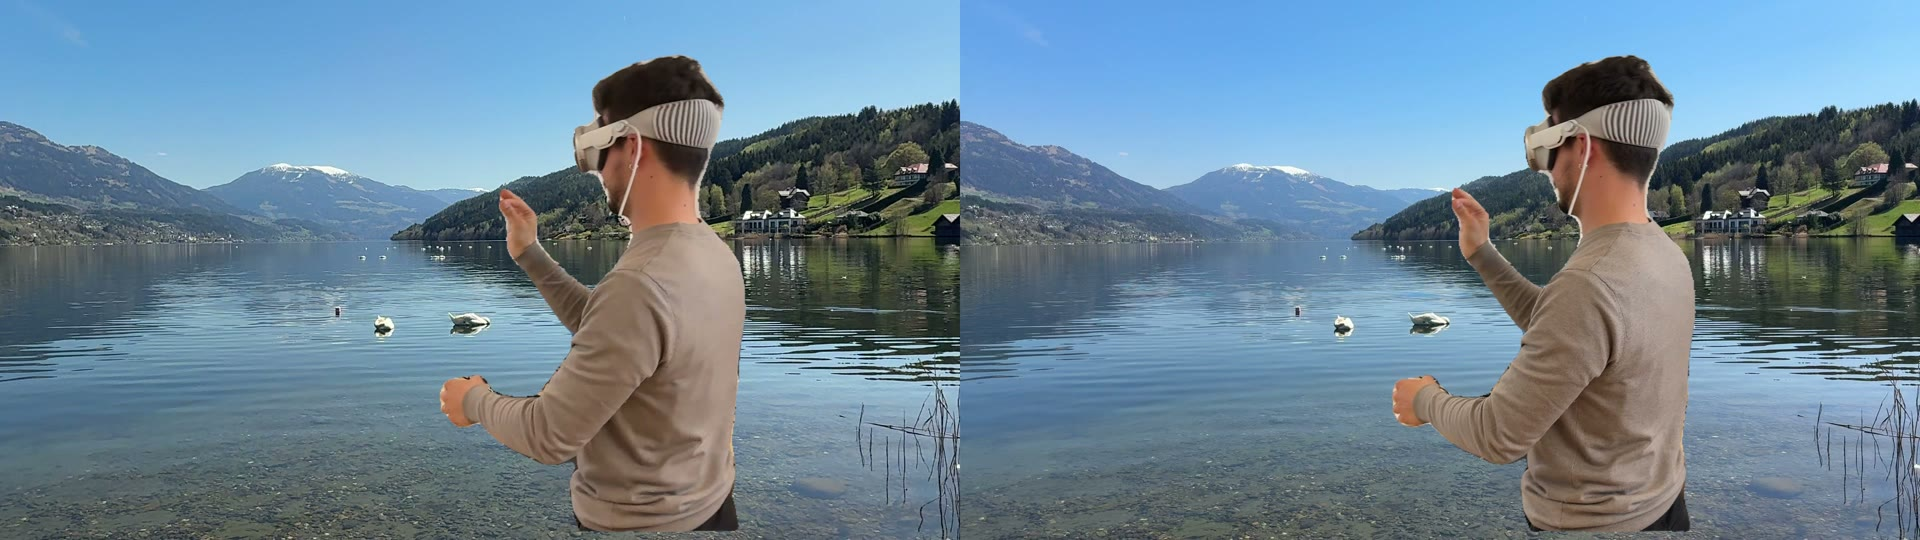
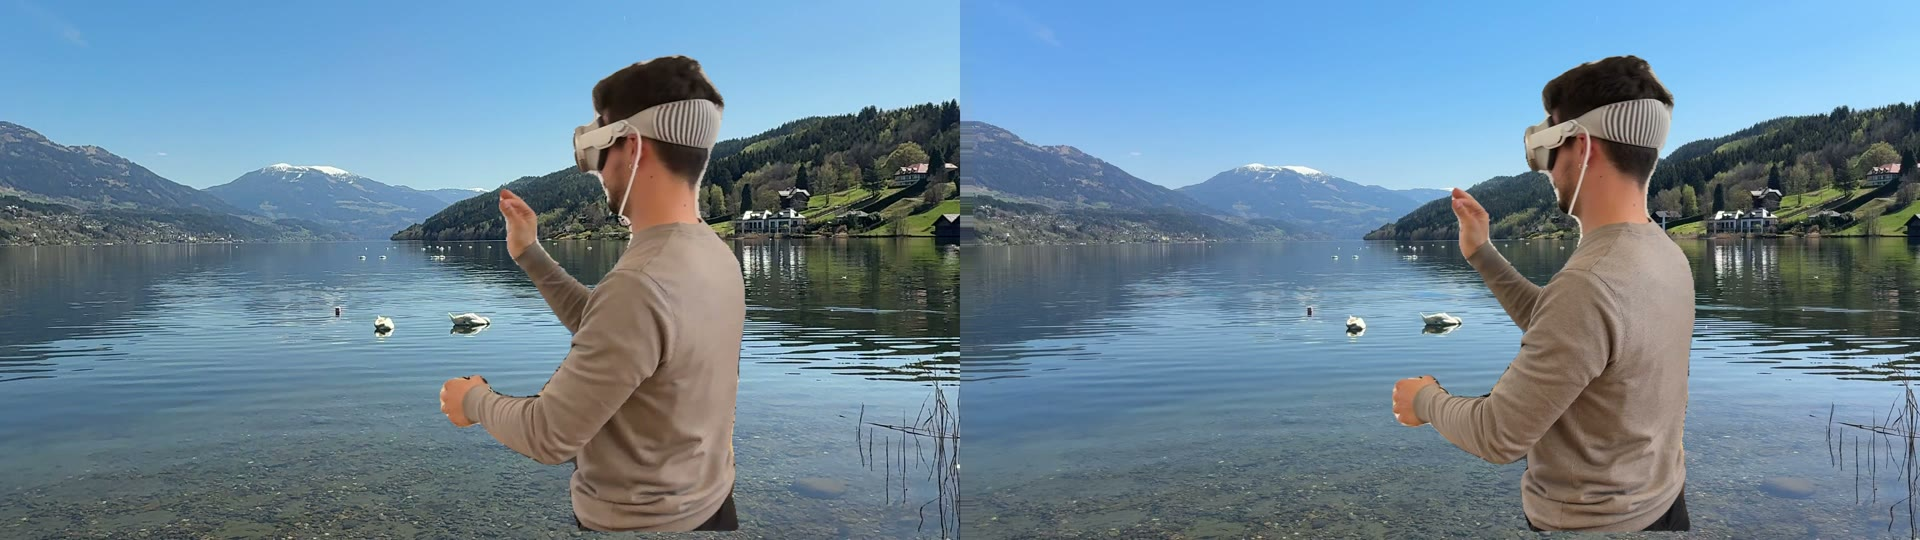
feat : qnn/sbs_portrait : 虚拟背景深度放置，按首帧人物视差 p5 与背景视差 p95 平移背景右眼（本例 24.1 px），保证背景位于人物之后，消除深度冲突

diff --git a/qnn/sbs_portrait/sbs_portrait_bench.py b/qnn/sbs_portrait/sbs_portrait_bench.py
@@ -5,6 +5,9 @@ Input : a directory of full side-by-side frames (left | right, each eye 1080p)
 Output: SBS composites (video + key frames), per-config temporal / stereo
         consistency metrics and latency (metrics.json / metrics.md).
 
+Background depth placement: the right view of the virtual background is shifted
+so that its disparity stays below the person's (background behind the person).
+
 Configs (alpha generation, all evaluated on the same frames in one pass):
   raw        panoptic person mask per eye, per frame (hard 0/1) -- baseline
   soft       semantic person probability -> smoothstep alpha
@@ -84,6 +87,9 @@ def main():
     ap.add_argument("--cache", default="", help="dir to cache per-frame segmentation (reuse across runs)")
     ap.add_argument("--soft", default="0.3,0.7", help="smoothstep range prob -> alpha")
     ap.add_argument("--lam", type=float, default=0.7, help="temporal EMA strength")
+    ap.add_argument("--bg-margin", type=float, default=4.0,
+                    help="px (full res) the background must stay behind the person's nearest disparity")
+    ap.add_argument("--no-bg-shift", action="store_true", help="disable background depth placement")
     ap.add_argument("--save-frames", default="0,75,149")
     args = ap.parse_args()
     os.makedirs(args.out, exist_ok=True)
@@ -117,9 +123,25 @@ def main():
 
     bgL, bgR = split_sbs(cv2.imread(args.bg))
     bgL, bgR = down(bgL, (W, H), cv2.INTER_LINEAR), down(bgR, (W, H), cv2.INTER_LINEAR)
+    gbL, gbR = [cv2.cvtColor(down(x, ws), cv2.COLOR_BGR2GRAY) for x in (bgL, bgR)]
+    bmin, bnum, bdy, _ = ts.estimate_disparity_range(gbL, gbR)
+    bd_l, _ = ts.StereoEstimator(bmin, bnum)(gbL, gbR)
+
+    # background depth placement: keep background disparity below the person's (frame 0)
+    s = args.work_scale
+    _, h0 = segment([L0])[0]
+    dL0, _ = stereo(gL0, gR0)
+    core = cv2.erode(down(h0.astype(np.uint8), ws, cv2.INTER_NEAREST), np.ones((9, 9), np.uint8)).astype(bool)
+    pct = lambda d: {f"p{q}": nanpct(d, q, 0.0) / s for q in (5, 50, 95)}
+    person_d, bg_d = pct(dL0[core]), pct(bd_l)
+    shift = 0.0 if args.no_bg_shift else max(0.0, bg_d["p95"] - person_d["p5"] + args.bg_margin)
+    if shift > 0:  # move the right view to the right -> disparity decreases -> further away
+        bgR = ts.warp_h(bgR, np.full((H, W), -shift, np.float32))
     bgL_w, bgR_w = down(bgL, ws), down(bgR, ws)
     stereo_info = {"pair_disp_range_work": [min_d, min_d + num_d], "vertical_offset_px_work": dy,
-                   "orb_matches": nmatch}
+                   "orb_matches": nmatch, "person_disp_full": person_d, "bg_disp_full": bg_d,
+                   "bg_shift_px_full": shift, "bg_disp_range_work": [bmin, bmin + bnum],
+                   "bg_vertical_offset_px_work": bdy}
     print("stereo:", json.dumps(stereo_info), flush=True)
 
     # ---------------- state ----------------
@@ -133,7 +155,7 @@ def main():
     writers = {c: cv2.VideoWriter(os.path.join(args.out, f"composite_{c}.mp4"), fourcc, 30, (W, H // 2))
                for c in VIDEO_CONFIGS}
     prev_g = None
-    last_person_disp = 0.0
+    last_person_disp = person_d["p50"] * s
 
     for t, f in enumerate(files):
         frame = f0 if t == 0 else cv2.imread(f)

diff --git a/qnn/sbs_portrait/results/metrics.md b/qnn/sbs_portrait/results/metrics.md
@@ -2,6 +2,6 @@
 |---|---|---|---|---|---|---|---|---|---|---|
 | raw | 0.9887 | 0.9788 | 0.0344 | 0.9845 | 0.0393 | 1.0000 | 0.0081 | 3.55 | 0.3 | 1009.3 |
 | soft | 0.9901 | 0.9812 | 0.0271 | 0.9842 | 0.0411 | 0.9697 | 0.0000 | 3.50 | 2.2 | 1011.1 |
-| soft+T | 0.9929 | 0.9866 | 0.0186 | 0.9847 | 0.0405 | 0.9687 | 0.0012 | 3.46 | 142.2 | 1151.1 |
-| soft+S | 0.9908 | 0.9836 | 0.0280 | 0.9987 | 0.0041 | 0.9673 | 0.0015 | 3.49 | 138.4 | 1147.3 |
-| soft+T+S | 0.9926 | 0.9884 | 0.0220 | 0.9987 | 0.0041 | 0.9666 | 0.0026 | 3.47 | 144.0 | 1152.9 |
+| soft+T | 0.9929 | 0.9866 | 0.0186 | 0.9847 | 0.0405 | 0.9687 | 0.0012 | 3.46 | 142.5 | 1151.4 |
+| soft+S | 0.9908 | 0.9836 | 0.0280 | 0.9987 | 0.0041 | 0.9673 | 0.0015 | 3.49 | 138.7 | 1147.7 |
+| soft+T+S | 0.9926 | 0.9884 | 0.0220 | 0.9987 | 0.0041 | 0.9666 | 0.0026 | 3.47 | 144.4 | 1153.3 |
